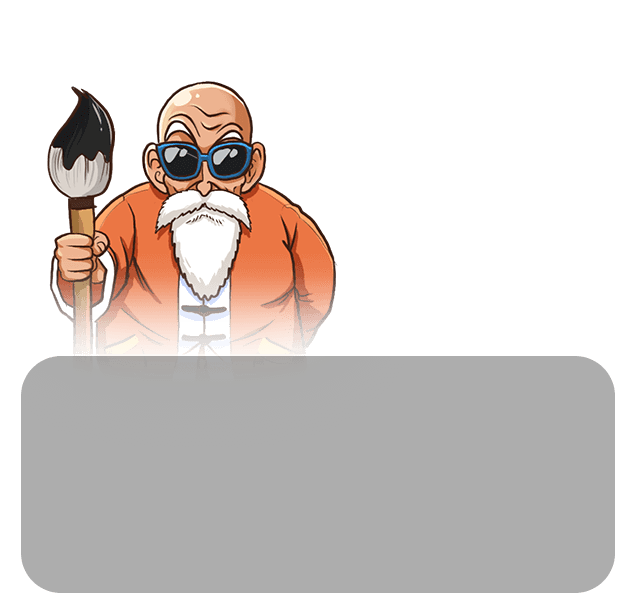
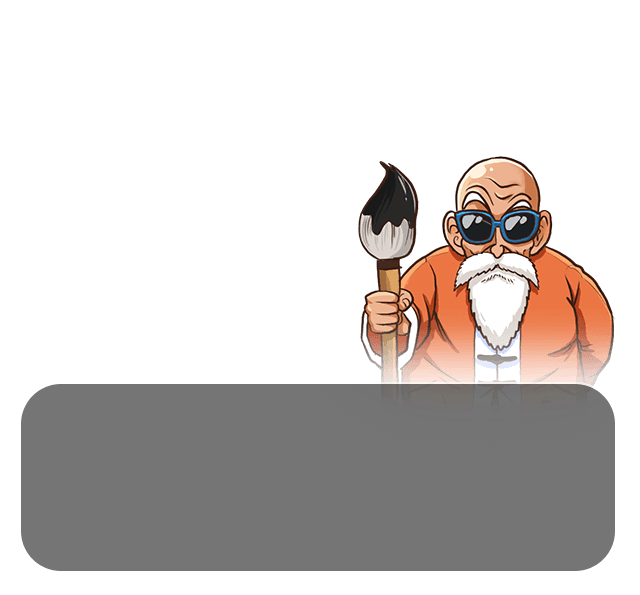
lucaljx
fix

diff --git a/dragonball/src/components/map/map.vue b/dragonball/src/components/map/map.vue
@@ -146,6 +146,7 @@ eye
 */ 
 .map-ball {
   position: absolute;
+  z-index: 1000;
 }
 // 一星
 .map-ball-1 {
@@ -395,6 +396,7 @@ hand
   height: 5.95rem;
   position: absolute;
   bottom: .5rem;
+  z-index: 500;
 }
 .map-master-wrapper {
   width: 100%;
